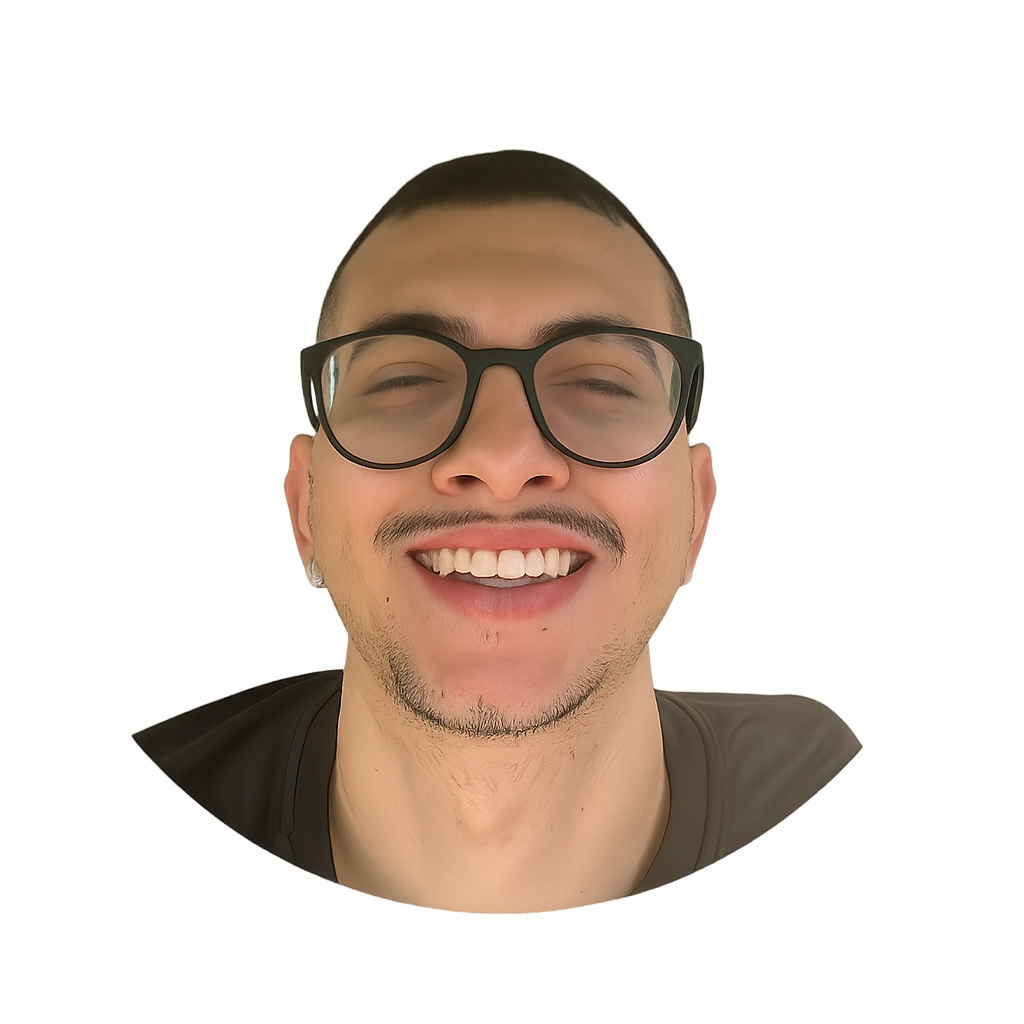
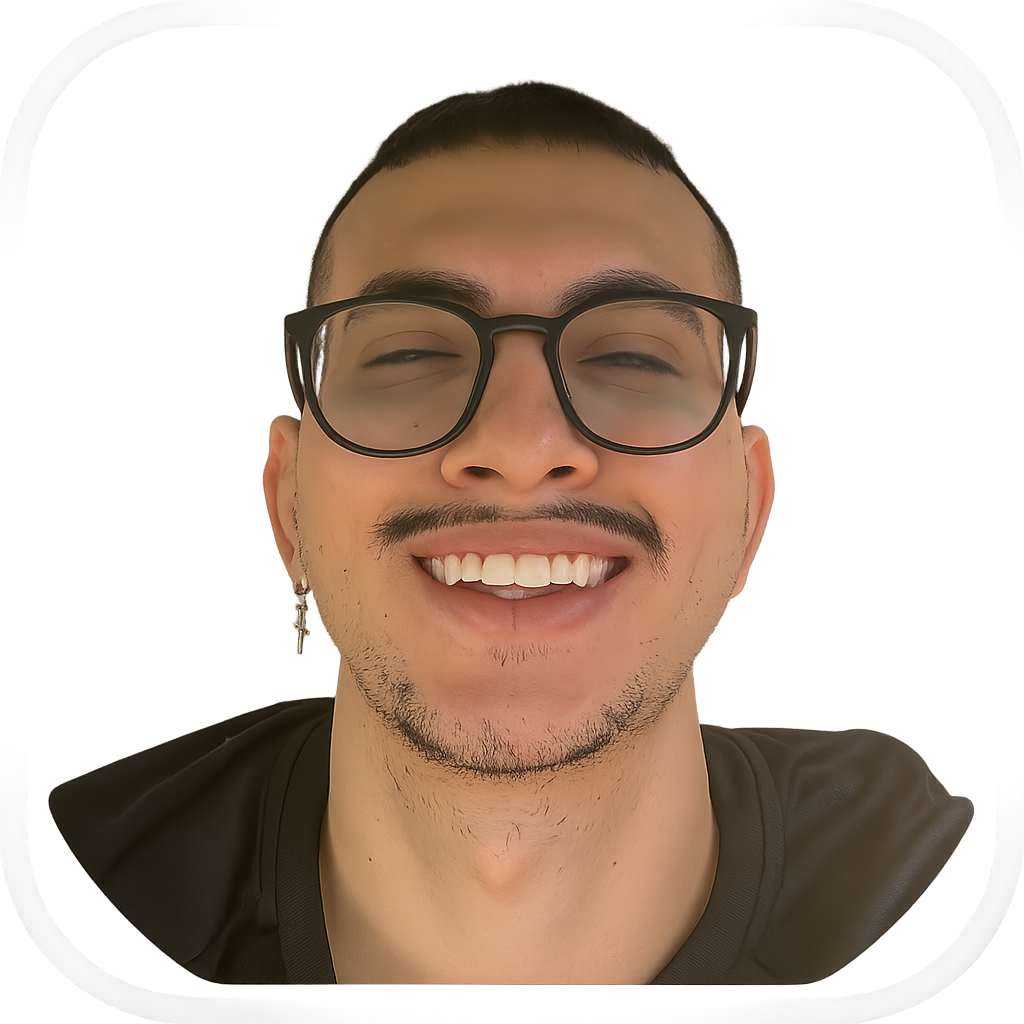
ajustes

diff --git a/index.html b/index.html
@@ -342,7 +342,7 @@ Mais do que apenas crescer, minha missão é, assim como fui ajudado no início,
           <!-- Carrossel da Roda Gigante à esquerda -->
           <div class="col-lg-3">
             <div>
-              <img src="./assets/img/ChatGPT Image 31 de jul. de 2025, 12_40_40.png" class="imagem-pequena">
+              <img src="./assets/img/perfil.png" class="imagem-pequena">
             </div>
           </div>
 
